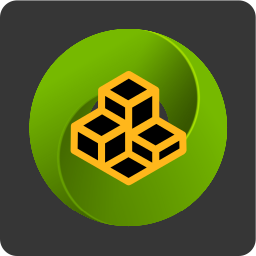
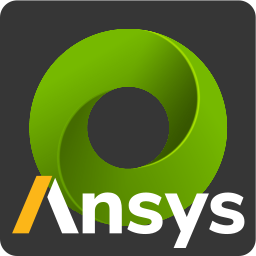
Test case #2
Replaced logo
Improved command line parsing

Changed region(s): [[0.25, 0.2812, 0.75, 0.7188], [0.0312, 0.6875, 0.9688, 0.9688]]

diff --git a/exts/ansys.geometry.service/ansys/geometry/service/extension.py b/exts/ansys.geometry.service/ansys/geometry/service/extension.py
@@ -1,11 +1,10 @@
 import logging
-from typing import Any
 
 import carb.settings
 import omni.ext
 import omni.kit.pipapi
-import omni.client
-from pxr import Gf, Sdf, Usd, UsdGeom, UsdLux, UsdShade
+# import omni.client
+# from pxr import Gf, Sdf, Usd, UsdGeom, UsdLux, UsdShade
 
 try:
     import ansys.pyensight.core
@@ -21,6 +20,11 @@ class AnsysGeometryServiceServerExtension(omni.ext.IExt):
         self._dsg_uri = self.setting("dsgUrl")
         self._omni_uri = self.setting("omniUrl")
         self._security_token = self.setting("securityCode")
+        self._temporal = self.setting("temporal") != "0"
+        self._vrmode = self.setting("vrmode") != "0"
+        self._normalizeGeometry = self.setting("normalizeGeometry") != "0"
+        self._version = "unknown"
+        self._thread = None
 
     @classmethod
     def setting(cls, name: str) -> str:
@@ -32,11 +36,39 @@ class AnsysGeometryServiceServerExtension(omni.ext.IExt):
     def info(self, text: str) -> None:
         self._logger.info(text)
 
+    def warning(self, text: str) -> None:
+        self._logger.warning(text)
+
     def error(self, text: str) -> None:
         self._logger.error(text)
 
     def on_startup(self, ext_id: str) -> None:
-        self.info(f"ANSYS geometry service server startup: {ext_id}")
+        self._version = ext_id
+        self.info(f"ANSYS geometry service server startup: {self._version}")
+        if self.setting("help"):
+            self.help()
+        elif self.setting("run"):
+            self.launch_server()
 
     def on_shutdown(self) -> None:
         self.info("ANSYS geometry service server shutdown")
+        if self._thread:
+            pass
+
+    def help(self):
+        self.info(f"ANSYS Omniverse Geometry Service: {self._version}")
+        self.info("  --/exts/ansys.geometry.service/omniUrl URL")
+        self.info("    Omniverse pathname (default: omniverse://localhost/Users/test )")
+        self.info("  --/exts/ansys.geometry.service/dsgUrl URL")
+        self.info("    Dynamic Scene Graph connection URL.  (default: grpc://127.0.0.1:12345 )")
+        self.info("  --/exts/ansys.geometry.service/securityCode TOKEN")
+        self.info("    Dynamic Scene Graph security token.  (default: '' )")
+        self.info("  --/exts/ansys.geometry.service/temporal 0|1")
+        self.info("    If non-zero, include all timeseteps in the scene.  (default: 0 )")
+        self.info("  --/exts/ansys.geometry.service/vrmode 0|1")
+        self.info("    If non-zero, do not include a camera in the scene.  (default: 0 )")
+        self.info("  --/exts/ansys.geometry.service/normalizeGeometry 0|1")
+        self.info("    If non-zero, remap the geometry to the domain [-1,-1,-1]-[1,1,1].  (default: 0 )")
+
+    def launch_server(self, thread=False):
+        pass

diff --git a/exts/ansys.geometry.serviceui/ansys/geometry/serviceui/extension.py b/exts/ansys.geometry.serviceui/ansys/geometry/serviceui/extension.py
@@ -30,6 +30,9 @@ class AnsysGeometryServiceUIExtension(omni.ext.IExt):
     def info(self, text: str) -> None:
         self._logger.info(text)
 
+    def warning(self, text: str) -> None:
+        self._logger.warning(text)
+
     def error(self, text: str) -> None:
         self._logger.error(text)
 

diff --git a/exts/ansys.geometry.service/docs/README.md b/exts/ansys.geometry.service/docs/README.md
@@ -1,4 +1,9 @@
-# Python Extension Example [ansys.geometry.service]
+# ANSYS Omniverse Geometry Service [ansys.geometry.service]
 
-This is an example of pure python Kit extension. It is intended to be copied and serve as a template to create new extensions.
+The Omniverse extension provides a dynamic connection between an ANSYS
+geometry source (e.g. ANSYS EnSight) and an Omniverse instance.  The
+connection runs as a standalone service capable of supporting scripted
+execution utilizing just a kit CLI.  It can also be launched via 
+PyEnSight and via a simple GUI provided by the [ansys.geometry.serviceui]
+kit extension.
 

diff --git a/exts/ansys.geometry.serviceui/docs/README.md b/exts/ansys.geometry.serviceui/docs/README.md
@@ -1,4 +1,8 @@
-# Python Extension Example [ansys.geometry.serviceui]
+# ANSYS Omniverse Geometry Service GUI [ansys.geometry.serviceui]
 
-This is an example of pure python Kit extension. It is intended to be copied and serve as a template to create new extensions.
+This Omniverse extension is a UI interface to the [ansys.geometry.service]
+kit extension.  It allows an Omniverse application user to connect to
+a running copy of ANSYS EnSight or other application that supports the 
+Dynamic Scene Graph gRPC protocol.  The GUI allows for the remote scene
+to be pulled, on request,  into a specified Omniverse location.
 
